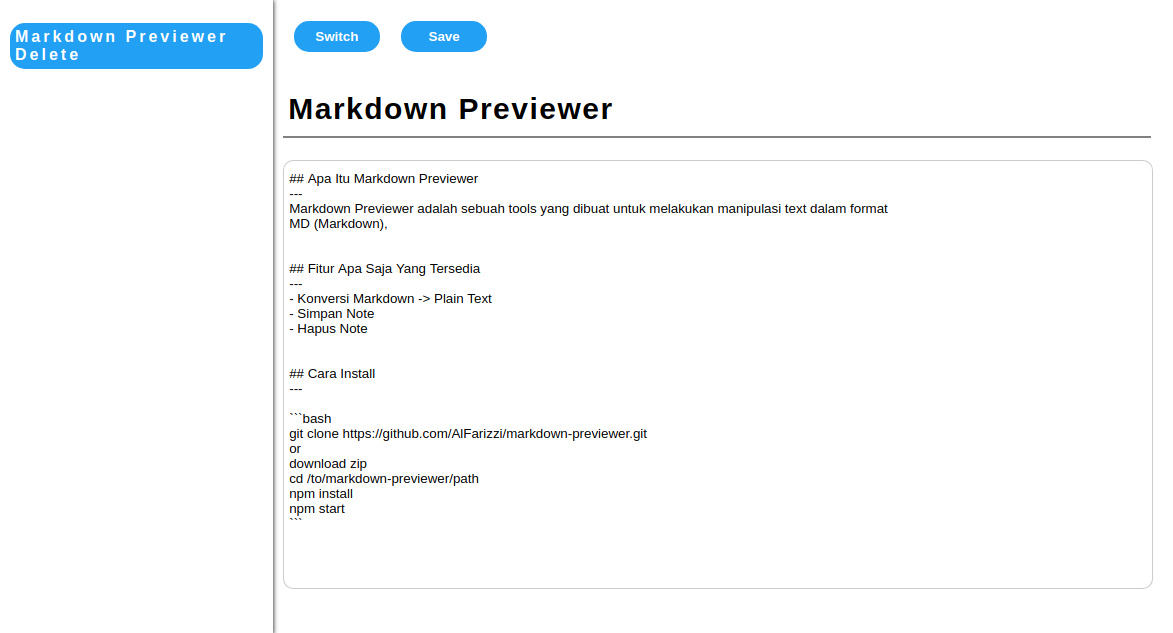
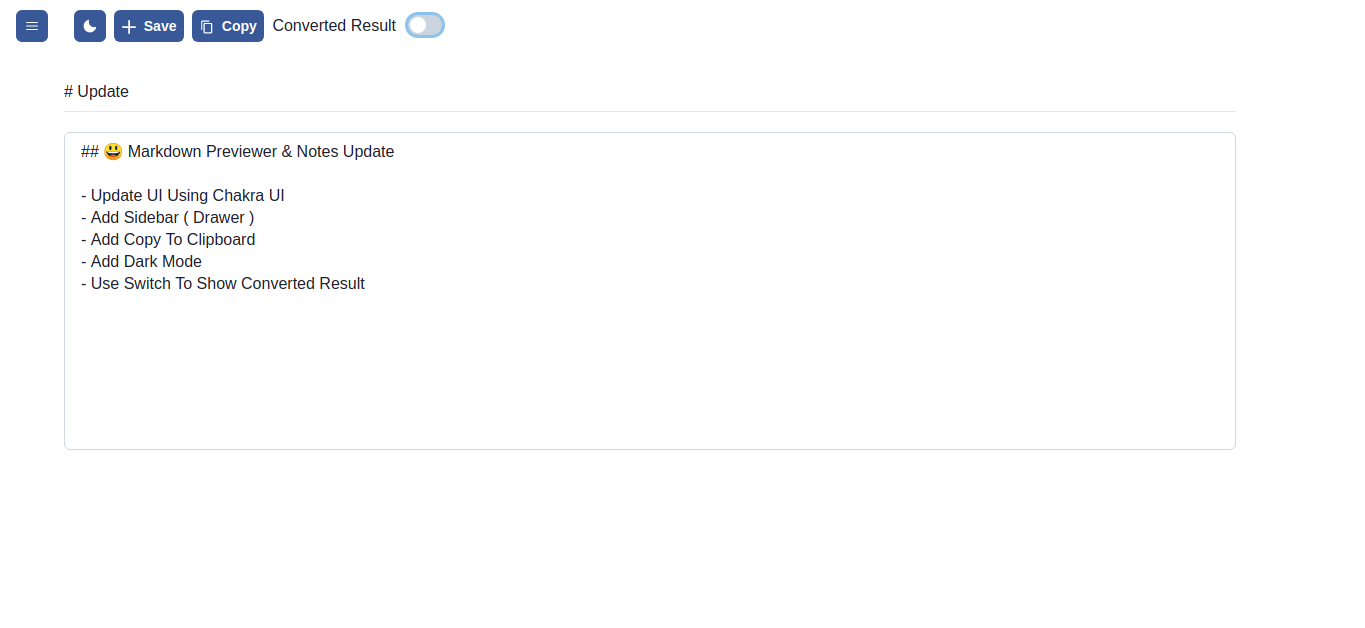
Add Dark Mode, Copy To Clipboard, Switch Button, Drawer, & Update README MD

Changed region(s): [[0.0614, 0.1513, 0.9821, 0.9379], [0.0, 0.0, 0.4297, 0.1815]]

diff --git a/src/App.js b/src/App.js
@@ -3,8 +3,8 @@ import Raw from './components/Raw';
 import Markdown from './components/Markdown';
 import Sidebar from './components/Sidebar';
 import "./App.css";
-import { HStack, Button, Switch, FormLabel, FormControl, useClipboard } from '@chakra-ui/react';
-import { AddIcon, CopyIcon } from '@chakra-ui/icons';
+import { HStack, Button, Switch, FormLabel, FormControl, useClipboard, useColorMode, IconButton } from '@chakra-ui/react';
+import { AddIcon, CopyIcon, MoonIcon, SunIcon } from '@chakra-ui/icons';
 const MemoizedSidebar = React.memo(Sidebar);
 
 function App(props) {
@@ -13,6 +13,7 @@ function App(props) {
   const [text,setText] = useState('');
   const [posts,setPosts] = useState([]);
   const {hasCopied, onCopy} = useClipboard(text);
+  const { colorMode, toggleColorMode } = useColorMode();
 
   const textHandler = (text) => {
     setText(text);
@@ -77,6 +78,13 @@ function App(props) {
         <div className="content">
           <div className="btn__container">
             <HStack mt={1.5}>
+              <IconButton 
+                  onClick={toggleColorMode}
+                  colorScheme="facebook"
+                  size="sm"
+                  icon={colorMode === "light" ? <MoonIcon /> : <SunIcon />}
+              /> 
+
               <Button 
               colorScheme="facebook" 
               leftIcon={<AddIcon />} 
@@ -88,7 +96,7 @@ function App(props) {
               leftIcon={<CopyIcon />} 
               size="sm" 
               onClick={onCopy}
-             >{hasCopied ? "Copied" : "Copy"}</Button>
+             >{hasCopied ? "Copied" : "Copy"}</Button>      
 
               <FormControl display="flex" alignItems="center">
                 <FormLabel mb="0">

diff --git a/src/index.js b/src/index.js
@@ -1,12 +1,14 @@
 import React from 'react';
 import ReactDOM from 'react-dom';
 import App from './App';
+import theme from './components/theme';
 import reportWebVitals from './reportWebVitals';
-import { ChakraProvider } from '@chakra-ui/react';
+import { ChakraProvider, ColorModeScript } from '@chakra-ui/react';
 
 ReactDOM.render(
   <React.StrictMode>
     <ChakraProvider>
+      <ColorModeScript initialColorMode={theme.config.initialColorMode} />
       <App />
     </ChakraProvider>
   </React.StrictMode>,

diff --git a/src/components/theme.js b/src/components/theme.js
@@ -1,0 +1,9 @@
+import { extendTheme } from '@chakra-ui/react';
+
+const config = {
+    initialColorMode: "light",
+    useSystemColorMode: false
+}
+
+const theme = extendTheme({config})
+export default theme;

diff --git a/README.md b/README.md
@@ -1,5 +1,5 @@
 
-| Raw Text | Converted Text |
+| Raw Text (Light Mode)| Converted Text (Dark Mode)|
 | ----------- | ----------- |
 | ![raw](ss/1.png) | ![converted](ss/2.png) |
 ## 🤔 Apa Itu Markdown Previewer 
@@ -13,6 +13,8 @@ MD (Markdown),
 - Konversi Markdown -> Plain Text
 - Simpan Note
 - Hapus Note
+- Dark Mode
+- Copy To Clipboard
 
 
 ## :computer: Cara Install
